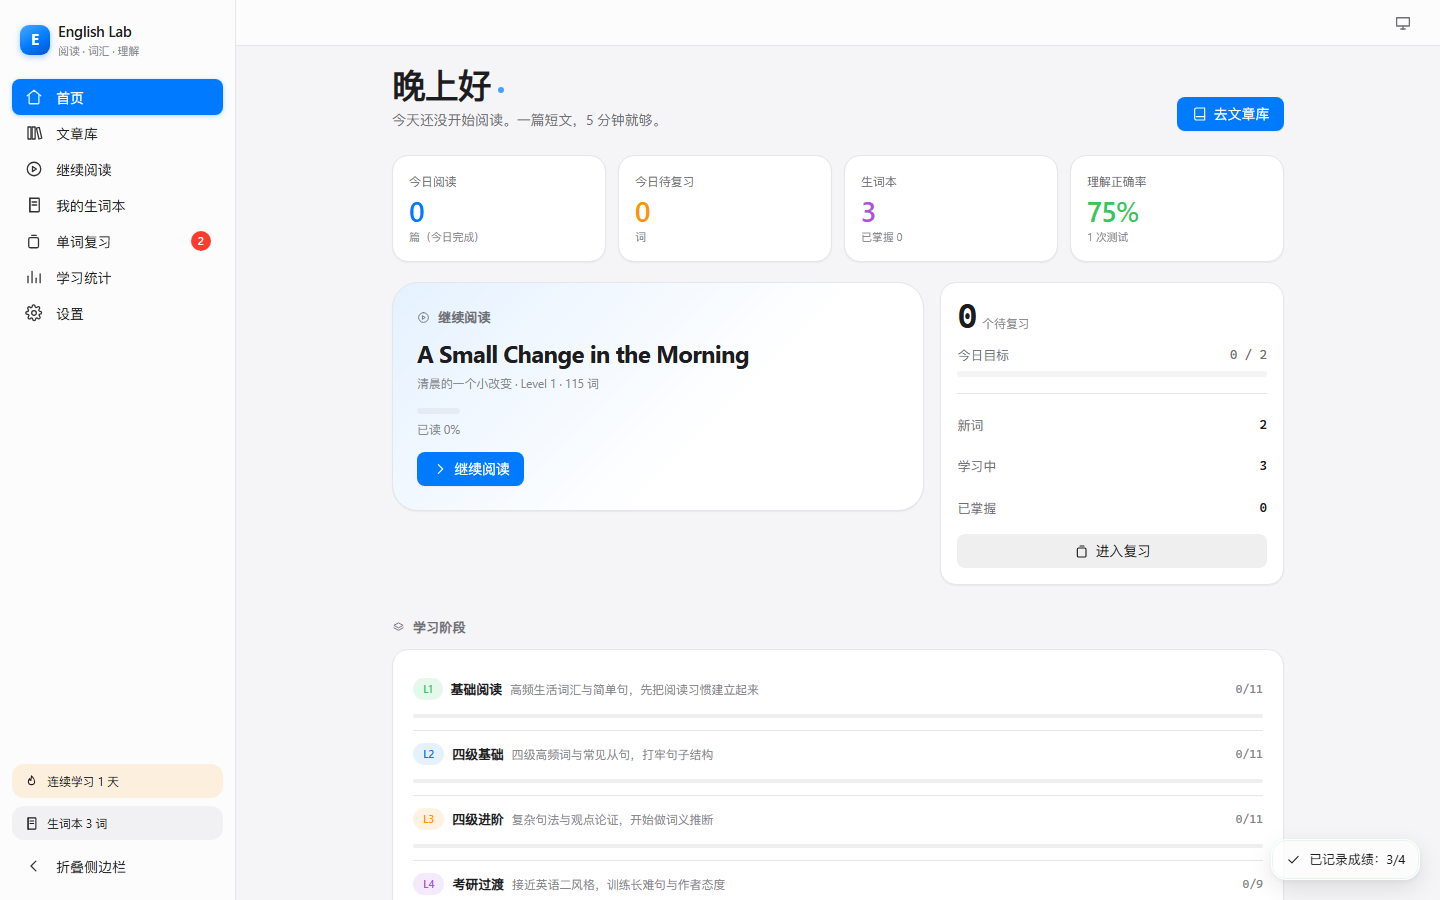
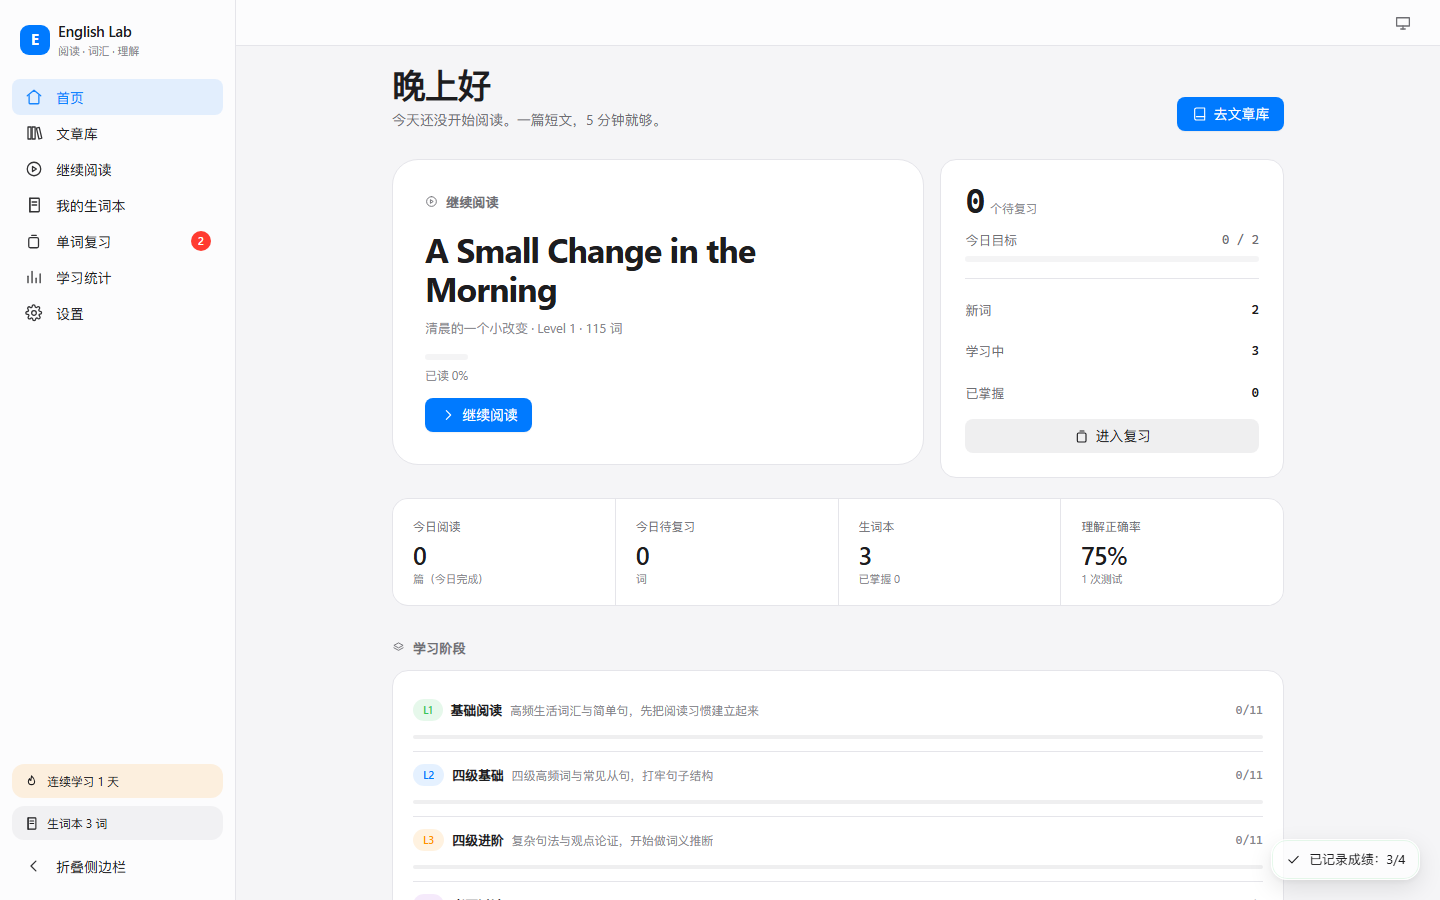
Improve offline reading and refresh interface

diff --git a/src/pages/Settings.tsx b/src/pages/Settings.tsx
@@ -15,6 +15,9 @@ export function Settings() {
   const { confirm, dialog } = useConfirm();
   const fileRef = useRef<HTMLInputElement>(null);
   const [usage, setUsage] = useState(() => storageUsage());
+  const [lastBackup, setLastBackup] = useState(() => {
+    try { return Number(localStorage.getItem('english-lab-last-backup') || 0); } catch { return 0; }
+  });
 
   const patch = (p: Partial<typeof s>) => {
     setData(updateSettings(getData(), p), true);
@@ -30,6 +33,9 @@ export function Settings() {
     a.download = `english-lab-backup-${new Date().toISOString().slice(0, 10)}.json`;
     a.click();
     URL.revokeObjectURL(url);
+    const now = Date.now();
+    try { localStorage.setItem('english-lab-last-backup', String(now)); } catch { /* 导出仍可使用 */ }
+    setLastBackup(now);
     toast('已导出学习数据', 'success');
   };
 
@@ -47,7 +53,10 @@ export function Settings() {
       danger: true,
     });
     if (!ok) return;
-    setData(res.data, true);
+    if (!setData(res.data, true)) {
+      toast('导入未能保存，请检查存储权限和可用空间', 'error');
+      return;
+    }
     setUsage(storageUsage());
     toast('导入完成', 'success');
   };
@@ -344,7 +353,7 @@ export function Settings() {
         <div className="set-group__title">数据</div>
         <div className="set-row">
           <div className="set-row__label">
-            本地存储占用
+            本地存储占用（估算）
             <div className="set-row__desc">
               {(usage.bytes / 1024).toFixed(1)} KB / {(usage.limitBytes / 1024 / 1024).toFixed(0)} MB（
               {Math.round(usage.ratio * 100)}%）
@@ -354,6 +363,14 @@ export function Settings() {
             <Button size="sm" variant="ghost" icon="refresh" onClick={() => setUsage(storageUsage())}>
               刷新
             </Button>
+          </div>
+        </div>
+        {usage.ratio >= 0.8 ? <div className="callout callout--warn" role="alert">学习数据接近参考存储上限，请及时导出备份。实际容量因浏览器而异。</div> : null}
+        {(data.vocabEntries.length > 0 && (!lastBackup || Date.now() - lastBackup > 30 * 86400000)) ? <div className="callout">建议定期导出学习记录，避免清理浏览器数据后丢失。 <Button size="sm" onClick={doExport}>导出备份</Button></div> : null}
+        <div className="set-row">
+          <div className="set-row__label">
+            离线使用
+            <div className="set-row__desc">联网打开过的页面和查询过的词典数据会尽可能缓存在本设备；未加载过的词条仍需要网络。浏览器可能清理缓存。</div>
           </div>
         </div>
         <div className="set-row">

diff --git a/src/components/WordPopover.tsx b/src/components/WordPopover.tsx
@@ -34,6 +34,7 @@ export function WordPopover({
   const [created, setCreated] = useState(false);
   const [saveState, setSaveState] = useState<'saving' | 'saved' | 'failed'>('saving');
   const [loading, setLoading] = useState(true);
+  const [lookupAttempt, setLookupAttempt] = useState(0);
   const [onlineState, setOnlineState] = useState<'idle' | 'loading' | 'failed'>('idle');
 
   const settings = getData().settings;
@@ -72,7 +73,7 @@ export function WordPopover({
         setResult(res);
         persist(res, true);
         setLoading(false);
-        if (res.pending && settings.onlineDictionary) void tryOnline(res.lemma);
+        if (res.pending && !res.dictionaryUnavailable && settings.onlineDictionary) void tryOnline(res.lemma);
       })
       .catch(() => {
         if (!alive) return;
@@ -83,7 +84,7 @@ export function WordPopover({
       alive = false;
     };
     // eslint-disable-next-line react-hooks/exhaustive-deps
-  }, [surface, sentence, articleId]);
+  }, [surface, sentence, articleId, lookupAttempt]);
 
   const tryOnline = async (lemma: string) => {
     setOnlineState('loading');
@@ -188,11 +189,13 @@ export function WordPopover({
 
         {saveState === 'failed' ? <div className="callout callout--warn" role="alert">记录尚未成功保存。请检查浏览器存储权限或空间。<Button size="sm" onClick={() => { if (result) persist(result, false); }}>重试保存</Button></div> : null}
 
+        {!loading && result?.dictionaryUnavailable ? <div className="callout callout--warn" role="alert">词典数据暂时无法加载，请检查网络后重试。 <Button size="sm" onClick={() => setLookupAttempt((n) => n + 1)}>重试查词</Button></div> : null}
+
         {loading ? (
           <div className="skeleton skeleton--line" style={{ height: 44 }} />
         ) : result?.pending ? (
           <div className="callout callout--warn" style={{ marginBottom: 12 }}>
-            <strong>词典暂未收录该词。</strong>
+            <strong>{result.dictionaryUnavailable ? '暂时无法确认词典是否收录。' : '词典暂未收录该词。'}</strong>
             <div className="hint" style={{ marginTop: 4 }}>
               已先存入生词本并标记为「释义待补充」，不会编造释义。
               {settings.onlineDictionary ? null : '可在设置中开启在线词典查询。'}

diff --git a/public/sw.js b/public/sw.js
@@ -1,0 +1,47 @@
+/* Cache the app shell and previously requested assets for later offline reading. */
+const CACHE = 'english-lab-offline-v1';
+const scope = self.registration.scope;
+self.addEventListener('install', (event) => {
+  event.waitUntil((async () => {
+    const cache = await caches.open(CACHE);
+    const response = await fetch(scope, { cache: 'reload' });
+    if (!response.ok) throw new Error('Unable to cache the app shell');
+    const html = await response.clone().text();
+    await cache.put(scope, response);
+    const assets = [...html.matchAll(/(?:src|href)="([^"]+\.(?:js|css))"/g)]
+      .map((match) => new URL(match[1], scope).href)
+      .filter((url) => url.startsWith(scope));
+    await Promise.all(assets.map(async (url) => {
+      const asset = await fetch(url);
+      if (asset.ok) await cache.put(url, asset);
+    }));
+    await self.skipWaiting();
+  })());
+});
+self.addEventListener('activate', (event) => event.waitUntil(self.clients.claim()));
+self.addEventListener('fetch', (event) => {
+  const request = event.request;
+  if (request.method !== 'GET' || !request.url.startsWith(scope)) return;
+  if (request.mode === 'navigate') {
+    event.respondWith((async () => {
+      const cache = await caches.open(CACHE);
+      try {
+        const response = await fetch(request);
+        if (response.ok) await cache.put(scope, response.clone());
+        return response;
+      } catch {
+        return (await cache.match(scope)) || Response.error();
+      }
+    })());
+    return;
+  }
+  if (!new URL(request.url).pathname.includes('/assets/')) return;
+  event.respondWith((async () => {
+    const cache = await caches.open(CACHE);
+    const cached = await cache.match(request);
+    if (cached) return cached;
+    const response = await fetch(request);
+    if (response.ok) await cache.put(request, response.clone());
+    return response;
+  })());
+});

diff --git a/src/pages/WordDetail.tsx b/src/pages/WordDetail.tsx
@@ -15,6 +15,7 @@ export function WordDetail({ lemma }: { lemma: string }) {
   const data = useData();
   const [result, setResult] = useState<LookupResult | null>(null);
   const [loading, setLoading] = useState(true);
+  const [lookupAttempt, setLookupAttempt] = useState(0);
   const [added, setAdded] = useState(false);
   const key = normalizeWord(lemma);
 
@@ -31,7 +32,7 @@ export function WordDetail({ lemma }: { lemma: string }) {
     return () => {
       alive = false;
     };
-  }, [key]);
+  }, [key, lookupAttempt]);
 
   const entry = data.vocabEntries.find((e) => e.lemma === (result?.lemma ?? key));
   const occ = entry ? data.occurrences.filter((o) => o.vocabularyEntryId === entry.id) : [];
@@ -66,6 +67,7 @@ export function WordDetail({ lemma }: { lemma: string }) {
 
   return (
     <div className="page">
+      {result?.dictionaryUnavailable ? <div className="callout callout--warn" role="alert">词典数据暂时无法加载。 <Button size="sm" onClick={() => setLookupAttempt((n) => n + 1)}>重试查词</Button></div> : null}
       <button className="link-btn" onClick={() => navigate('/notebook')} style={{ marginBottom: 12 }}>
         <Icon name="left" size={12} /> 返回生词本
       </button>
@@ -123,7 +125,7 @@ export function WordDetail({ lemma }: { lemma: string }) {
         ) : result?.pending ? (
           <Card>
             <div className="callout callout--warn">
-              词典暂未收录该词，也不会编造释义。
+              {result.dictionaryUnavailable ? '暂时无法确认词典是否收录该词。' : '词典暂未收录该词，也不会编造释义。'}
               {getData().settings.onlineDictionary ? '可稍后重试，或在设置中确认在线词典是否可用。' : '可在设置中开启在线词典补充查询。'}
             </div>
           </Card>

diff --git a/src/pages/Home.tsx b/src/pages/Home.tsx
@@ -78,18 +78,6 @@ export function Home() {
         </div>
       </div>
 
-      <div className="stat-strip">
-        <StatCard label="今日阅读" value={stats.todayArticles} hint="篇（今日完成）" tone="accent" />
-        <StatCard label="今日待复习" value={stats.dueToday} hint="词" tone="orange" onClick={() => navigate('/review')} />
-        <StatCard label="生词本" value={stats.vocabTotal} hint={`已掌握 ${stats.vocabMastered}`} tone="purple" onClick={() => navigate('/notebook')} />
-        <StatCard
-          label="理解正确率"
-          value={stats.quizQuestionTotal ? `${Math.round(stats.quizAccuracy * 100)}%` : '—'}
-          hint={`${stats.quizAttempts} 次测试`}
-          tone="green"
-        />
-      </div>
-
       <div className="home-grid">
         <Card className="hero-card">
           <div className="hero-card__text">
@@ -161,6 +149,18 @@ export function Home() {
             进入复习
           </Button>
         </Card>
+      </div>
+
+      <div className="stat-strip">
+        <StatCard label="今日阅读" value={stats.todayArticles} hint="篇（今日完成）" tone="accent" />
+        <StatCard label="今日待复习" value={stats.dueToday} hint="词" tone="orange" onClick={() => navigate('/review')} />
+        <StatCard label="生词本" value={stats.vocabTotal} hint={`已掌握 ${stats.vocabMastered}`} tone="purple" onClick={() => navigate('/notebook')} />
+        <StatCard
+          label="理解正确率"
+          value={stats.quizQuestionTotal ? `${Math.round(stats.quizAccuracy * 100)}%` : '—'}
+          hint={`${stats.quizAttempts} 次测试`}
+          tone="green"
+        />
       </div>
 
       <div className="section-title">

diff --git a/src/styles/extra.css b/src/styles/extra.css
@@ -686,3 +686,25 @@ mark {
     font-size: 11px;
   }
 }
+
+/* 阅读优先：简洁的层级与更安静的表面 */
+.home-head { margin-bottom: 28px; }
+.home-greet { font-weight: 650; letter-spacing: -0.04em; }
+.home-greet__dot { display: none; }
+.home-grid { margin-top: 0; gap: 16px; }
+.hero-card { min-height: 250px; padding: 32px; justify-content: center; background: var(--surface); border-color: var(--separator); }
+.hero-title { font-size: clamp(25px, 3vw, 34px); font-weight: 650; line-height: 1.16; margin: 8px 0; }
+.hero-card__meta { font-size: 13px; }
+.due-card { padding: 24px; }
+.stat-strip { margin: 20px 0 8px; gap: 1px; overflow: hidden; border: 1px solid var(--separator); border-radius: var(--r-lg); background: var(--separator); }
+.stat-strip .stat-card { border: 0; border-radius: 0; box-shadow: none; padding: 18px 20px; }
+.stat-strip .stat-card__value { color: var(--text-1); font-size: 25px; }
+.nav-item[aria-current='page'] { color: var(--accent); background: var(--accent-soft); box-shadow: none; }
+.nav-item[aria-current='page'] .nav-item__badge { color: var(--text-inverse); background: var(--red); }
+.sidebar__logo { background: var(--accent); box-shadow: none; }
+.card { box-shadow: none; }
+@media (max-width: 640px) {
+  .hero-card { min-height: 220px; padding: 24px; }
+  .stat-strip { gap: 1px; }
+  .stat-strip .stat-card { padding: 16px; }
+}

diff --git a/src/lib/dict.ts b/src/lib/dict.ts
@@ -31,6 +31,8 @@ export interface LookupResult {
   source: 'lexicon' | 'glossary' | 'ecdict' | 'online' | 'none';
   /** 词典未收录，释义待补充 */
   pending: boolean;
+  /** 扩展词库加载失败，可稍后重试 */
+  dictionaryUnavailable?: boolean;
   /** 词形存在多种还原可能（如 leaves → leaf / leave） */
   ambiguous: string[];
   /** 该词所在句子中匹配到的固定搭配 */
@@ -357,8 +359,12 @@ export async function lookupWord(rawSurface: string, opts: LookupOptions = {}): 
   let phonetic: { uk?: string; us?: string } = { uk: entry?.uk, us: entry?.us };
   let finalSenses = senses;
 
+  let dictionaryUnavailable = false;
   if (!entry) {
-    const offline = await lookupOffline([resolvedLemma, surface, ...candidates]).catch(() => null);
+    const offline = await lookupOffline([resolvedLemma, surface, ...candidates]).catch(() => {
+      dictionaryUnavailable = true;
+      return null;
+    });
     if (offline) {
       resolvedLemma = offline.lemma;
       finalSenses = offline.senses;
@@ -389,6 +395,7 @@ export async function lookupWord(rawSurface: string, opts: LookupOptions = {}): 
     synonyms: entry?.synonyms ?? [],
     source,
     pending: finalSenses.length === 0,
+    dictionaryUnavailable,
     ambiguous: lem.confident ? [] : candidates.filter((c) => c !== resolvedLemma).slice(0, 3),
     phraseHits,
   };

diff --git a/src/lib/offline-dictionary.ts b/src/lib/offline-dictionary.ts
@@ -16,7 +16,10 @@ export function loadOfflineDictionary(prefix?: string): Promise<OfflineData> {
   let pending = loaded.get(key);
   if (!pending) {
     const loader = shardLoaders[`../data/ecdict/${key}.json`];
-    pending = loader ? loader().then((module) => module.default) : Promise.resolve({ entries: {}, forms: {} });
+    pending = loader ? loader().then((module) => module.default).catch((error: unknown) => {
+      loaded.delete(key);
+      throw error;
+    }) : Promise.resolve({ entries: {}, forms: {} });
     loaded.set(key, pending);
   }
   return pending;

diff --git a/src/main.tsx b/src/main.tsx
@@ -16,3 +16,11 @@ createRoot(root).render(
     <App />
   </StrictMode>,
 );
+
+if (import.meta.env.PROD && 'serviceWorker' in navigator) {
+  window.addEventListener('load', () => {
+    void navigator.serviceWorker.register(`${import.meta.env.BASE_URL}sw.js`).catch(() => {
+      // 在线功能仍可用；浏览器可能不支持离线缓存。
+    });
+  });
+}

diff --git a/docs/CONTENT-EXPANSION.md b/docs/CONTENT-EXPANSION.md
@@ -8,11 +8,11 @@
 
 最初版本按词频截取了 35,284 个词条；2026-10-28 已改为导入完整可检索数据，详见下方“开源词库扩充”。
 
-词库独立按需加载，首次查非核心词时会加载约 3.44 MB 的词典代码块（gzip 约 1.23 MB），构建会提示该块较大。没有声称其每条释义都经过人工校订。完整出版社权威词典仍待授权选择，见 `DICTIONARY-LICENSING.md`。
+词库按两字母前缀拆分，首次查词时按需加载对应数据块。没有声称其每条释义都经过人工校订。完整出版社权威词典仍待授权选择，见 `DICTIONARY-LICENSING.md`。
 
 同时修复真实保存状态、保存失败提示和重试、阅读进度尾次更新与恢复坐标、键盘查词、浮层焦点返回、缩小屏幕后辅助面板遮挡正文，以及其他文章的词义标注被误称为本文语境义的问题。
 
-本机检查：228 项单元测试通过，64 项 Chromium 浏览器检查通过；内容校验、TypeScript 和 ESLint 通过，生产构建通过（存在上述词库分包体积提示）。浏览器检查含桌面、iPad/iPhone 视口、深色模式、查词收藏去重、刷新持久化、失败重试、手机浮层边界。未在真实 macOS/iOS Safari 设备运行。
+本机检查：228 项单元测试通过，64 项 Chromium 浏览器检查通过；内容校验、TypeScript 和 ESLint 通过，生产构建通过。浏览器检查含桌面、iPad/iPhone 视口、深色模式、查词收藏去重、刷新持久化、失败重试、手机浮层边界。未在真实 macOS/iOS Safari 设备运行。
 
 持久化仍沿用原项目的版本化 localStorage；未将项目切换为 SQLite，也未宣称已完成云同步或出版社词典接入。不要把 `future-schema.prisma` 当成当前生效的数据库迁移。
 
